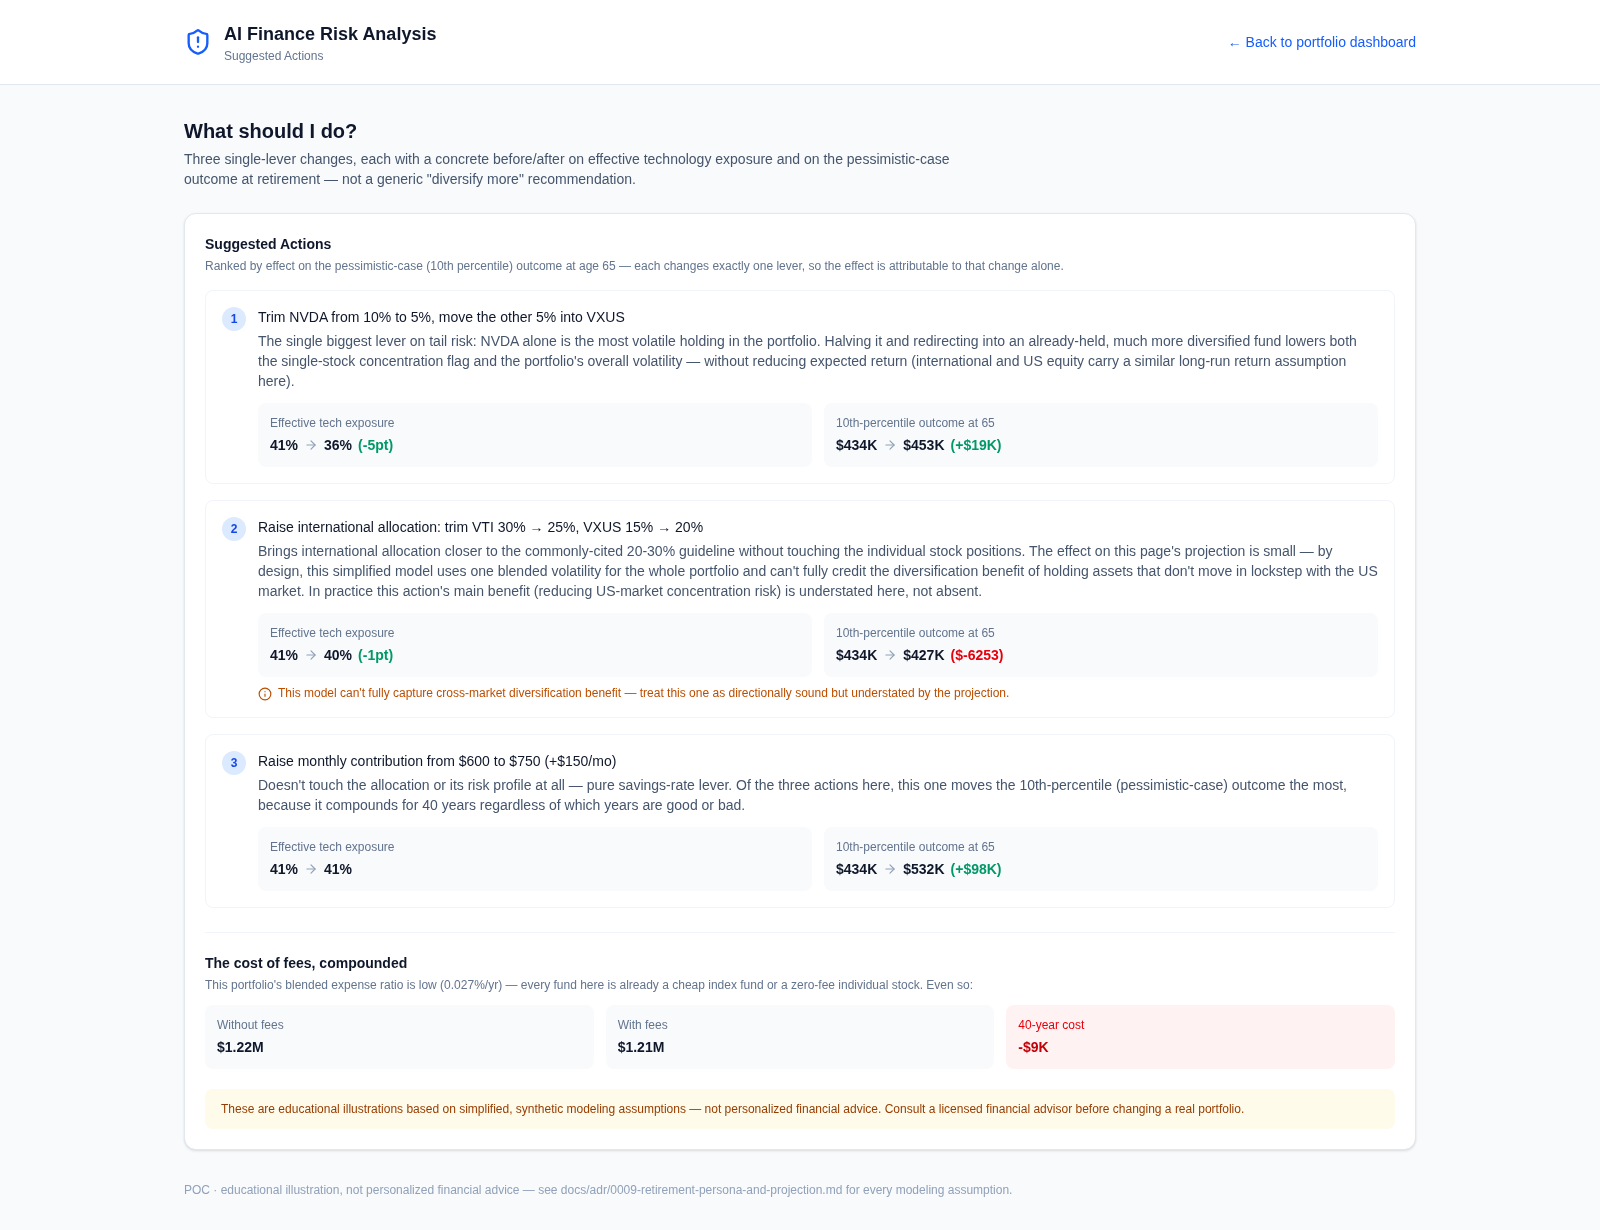
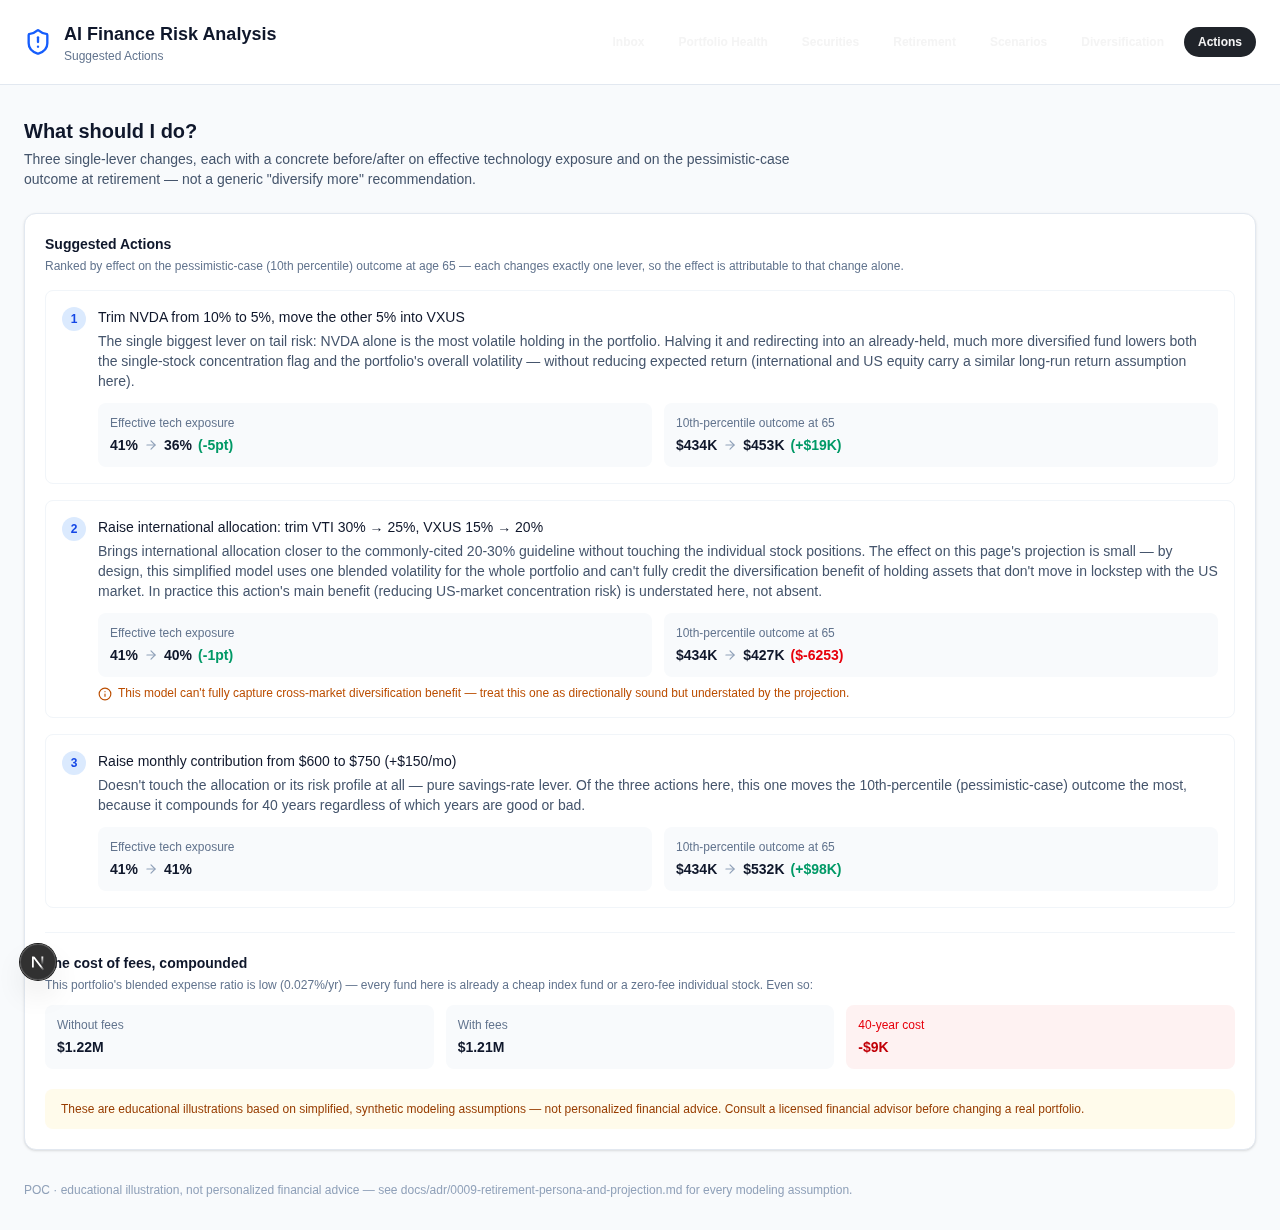
docs: ADR 0011 + README/screenshots for the triage-inbox visual build
Documents the dark Confident Flat visual system adoption, the
Act/Watch/Reviewed triage-queue structure replacing the card-grid
digest, and the holding-detail restructure (thesis/verdict/
bull-bear/catalysts/timeline/show-your-work) — implementation of
already-approved UX from the mockup review, not a new decision.
README route descriptions and screenshots updated to match the new
/, /portfolio-health, and /securities/[ticker]; stale
digest/dashboard/old-security-detail screenshots removed.

diff --git a/README.md b/README.md
@@ -1,27 +1,53 @@
-# AI Finance Risk Analysis — Dashboard POC
+# AI Finance Risk Analysis — Research Copilot POC
 
-A proof-of-concept dashboard illustrating what an AI-driven personal
-portfolio risk analysis product could look like for one hypothetical
-early-career retirement investor: age 25, a $18,000 brokerage account
-(7 holdings), contributing $600/month toward a $1.5M goal at 65.
+A proof-of-concept triage inbox illustrating what an AI-assisted
+personal-portfolio research copilot could look like for one
+hypothetical early-career retirement investor: age 25, a $18,000
+brokerage account (7 holdings — NVDA, AAPL, MSFT, VTI, VXUS, BND,
+Cash), contributing $600/month toward a $1.5M goal at 65.
 
-A 1-day Value at Risk number and a 0-100 risk score matter very little
-to someone with a 40-year horizon, so the dashboard is built around four
-questions a long-term investor actually asks — plus a fifth surface,
-research triage, that answers a different question entirely: not "is
-this portfolio healthy," but "what actually changed and is worth a
-look right now."
+The app is built around a triage-first workflow, not a static risk
+dashboard: what needs attention right now, with every claim traceable
+to a source, plus the separate questions a long-term investor actually
+asks (am I on track, what could go wrong, how is it doing, what should
+I do). Visual system is a dark "Confident Flat" theme — see
+[`docs/adr/0011-triage-inbox-visual-implementation.md`](docs/adr/0011-triage-inbox-visual-implementation.md)
+for the full build record and
+[`design/mockups/clickable-triage.html`](design/mockups/clickable-triage.html),
+[`clickable-health.html`](design/mockups/clickable-health.html), and
+[`clickable-detail.html`](design/mockups/clickable-detail.html) for the
+literal approved spec these pages implement.
 
-- **What changed, and is it worth a look?** ([`/digest`](apps/web/src/app/digest/page.tsx),
-  the landing page) — every holding's recent news, sentiment signal,
-  and tax-lot timing in one feed, ranked by relevance to this specific
-  portfolio (position size, news recency/volume, tax-lot urgency,
-  diversification impact) via a pure ranking function, never
-  hardcoded order. Every signal shows its basis (e.g. "analyst
-  commentary tone," "social chatter volume") and links straight into
-  the relevant holding's brief — information plus "why it might
-  matter," never a buy/sell/hold call. See
-  [`docs/adr/0010-research-copilot-reframe.md`](docs/adr/0010-research-copilot-reframe.md).
+- **What needs my attention?** ([`/`](apps/web/src/app/page.tsx), the
+  landing page — "Inbox" in the nav) — every holding grouped into
+  Act / Watch / Reviewed (no action needed), each item carrying a
+  headline, a one-line summary, and the specific reason it was
+  flagged. "Mark reviewed" is a real client-side interaction (no
+  persistence — POC). Below the queue, portfolio-level signals
+  (concentration hidden inside index funds, correlated news across
+  holdings) surface cross-holding analysis no single item's triage
+  would catch, plus the current allocation breakdown. Never a
+  buy/sell/hold call — every claim is framed as evidence to form your
+  own view from, with a stated basis.
+- **How is it doing?** ([`/portfolio-health`](apps/web/src/app/portfolio-health/page.tsx)) —
+  a deliberately separate page from the inbox (triage changes when
+  news drops; this changes when the market moves). Hero total-value
+  chart with a 1D/1W/1M/YTD/1Y toggle (the chart's accent color always
+  follows the actual sign of the period's change, never hardcoded),
+  biggest movers linking back into the inbox or a holding's brief,
+  a holdings price/return table, an allocation bar, and risk context
+  (diversification score, volatility, max drawdown) demoted to a small
+  card explicitly labeled "describes behavior, not instruction."
+- **Why is this holding flagged, and what's the evidence?**
+  ([`/securities/[ticker]`](apps/web/src/app/securities/[ticker]/page.tsx)) —
+  a thesis check with a verdict chip (weakens/supports/neutral,
+  always paired with its reason — never a bare rating), bull case /
+  bear case with inline citation markers, upcoming catalysts, a
+  chronological timeline, an explicit "what this system couldn't
+  verify" disclosure, and a per-citation "show your work" drawer
+  (raw excerpt, source-quality tag, model classification). Covers all
+  7 holdings, including the two low-activity index funds and Cash,
+  which render minimal pages rather than breaking.
 - **Am I on track?** ([`/retirement`](apps/web/src/app/retirement/page.tsx)) —
   a seeded Monte Carlo projection to age 65 (10th/50th/90th percentile
   fan chart against the goal), with live sliders for contribution and
@@ -30,56 +56,57 @@ look right now."
   2008/2020/2022-style drawdowns replayed against this persona's actual
   allocation, with a toggle comparing the same shock against a
   hypothetical 58-year-old pre-retiree to show why horizon matters.
-- **Why is it flagged?** ([`/portfolio-health`](apps/web/src/app/portfolio-health/page.tsx),
-  the former landing page, plus [`/diversification`](apps/web/src/app/diversification/page.tsx)) —
-  every AI risk flag explained in three parts (what it means, why it
-  matters at this horizon, what's driving it), plus a visual showing
-  how much of the portfolio's technology exposure is hidden inside
-  index funds vs. held directly.
+- **How concentrated is this, really?** ([`/diversification`](apps/web/src/app/diversification/page.tsx)) —
+  a diversification score, asset allocation, and effective sector
+  exposure once index funds are looked through (direct holdings vs.
+  via index funds).
 - **What should I do?** ([`/actions`](apps/web/src/app/actions/page.tsx)) —
   three ranked, single-lever suggestions (each with a before/after on
   tech exposure and on the pessimistic-case outcome at 65), plus what
   fee drag costs over 40 years even on a low-cost portfolio.
 
-Each security's own page ([`/securities/[ticker]`](apps/web/src/app/securities/[ticker]/page.tsx))
-now also carries a research brief: a fundamentals-vs-own-history-and-peers
-snapshot, that holding's news digest, its sentiment signal, any
-tax-lot flags, and a 180-day price/fundamental trend chart — in
-addition to, not replacing, the existing AI risk score and signals.
-
 **This is a POC with no backend, no data pipeline, and no real data.**
 Everything on screen is synthetic/mock data defined in
-[`apps/web/src/lib/mock-data.ts`](apps/web/src/lib/mock-data.ts). See
+[`apps/web/src/lib/mock-data.ts`](apps/web/src/lib/mock-data.ts) and
+[`apps/web/src/lib/triage.ts`](apps/web/src/lib/triage.ts) (the inbox,
+Portfolio Health, and holding-detail fixtures — content copied
+verbatim from the approved mockups, not invented). See
 [`docs/adr/0001-poc-scope-no-plumbing.md`](docs/adr/0001-poc-scope-no-plumbing.md)
 for why, and the rest of [`docs/adr/`](docs/adr/) for the decisions
 behind this build —
 [`docs/adr/0009-retirement-persona-and-projection.md`](docs/adr/0009-retirement-persona-and-projection.md)
-documents the persona and **every modeling assumption** behind the
-projection, scenario replay, and suggested-action math, worked out by
-hand so it's auditable rather than a black box.
+documents the persona and every modeling assumption behind the
+projection, scenario replay, and suggested-action math, and
+[`docs/adr/0010-research-copilot-reframe.md`](docs/adr/0010-research-copilot-reframe.md) /
+[`docs/adr/0011-triage-inbox-visual-implementation.md`](docs/adr/0011-triage-inbox-visual-implementation.md)
+document the triage-queue product shape and its final visual
+implementation, respectively.
 
 ## Screenshots
 
-Digest — the new landing page, holdings ranked by relevance:
+Inbox — the landing page, Act/Watch triage queue with portfolio-level signals:
 
-![Digest](docs/screenshots/digest.png)
+![Inbox](docs/screenshots/triage-inbox.png)
 
-Portfolio health — the former dashboard, now its own route:
+Inbox — after marking an item reviewed (client-side state, no persistence):
 
-![Portfolio health](docs/screenshots/portfolio-health.png)
+![Inbox — mark reviewed](docs/screenshots/triage-inbox-mark-reviewed.png)
 
-One holding's full research brief — fundamentals, trend, news, sentiment,
-and tax-lot flags, alongside the existing AI risk read-out:
+Portfolio Health — hero value chart, movers, holdings table, allocation, risk context:
 
-![Security detail — research brief](docs/screenshots/security-detail-brief.png)
+![Portfolio Health](docs/screenshots/portfolio-health.png)
 
-Dashboard — full page:
+Portfolio Health — 1D timeframe selected (chart color follows the actual sign):
 
-![Dashboard — full page](docs/screenshots/dashboard-full.png)
+![Portfolio Health — 1D](docs/screenshots/portfolio-health-1d.png)
 
-Dashboard — above-the-fold viewport:
+Holding detail — NVDA's thesis check, bull/bear evidence, catalysts, and timeline:
 
-![Dashboard — viewport](docs/screenshots/dashboard-viewport.png)
+![Security detail — NVDA](docs/screenshots/security-detail-nvda.png)
+
+Holding detail — a citation's "show your work" drawer open:
+
+![Security detail — NVDA, source drawer](docs/screenshots/security-detail-nvda-drawer.png)
 
 Am I on track? — retirement projection with live sliders:
 
@@ -93,15 +120,9 @@ What should I do? — ranked suggested actions and fee drag:
 
 ![Suggested actions](docs/screenshots/actions.png)
 
-Per-security view — every holding ranked by AI risk score, with model
-confidence:
+Per-security view — every holding ranked by AI risk score, with model confidence:
 
 ![Securities — list](docs/screenshots/securities-list.png)
-
-One holding in depth — AI-assisted risk read-out, the signals driving
-it, and a 30-day trend:
-
-![Security — detail](docs/screenshots/security-detail.png)
 
 Diversification risk — the portfolio-level view: a diversification
 score, asset allocation, effective sector exposure once index funds
@@ -115,25 +136,28 @@ the AI flagged:
 ```
 ai-finance-risk-analysis/
 ├── apps/
-│   └── web/              # Next.js (App Router) dashboard
+│   └── web/              # Next.js (App Router) app
 │       └── src/
-│           ├── app/              # page.tsx (digest), digest/, portfolio-health/,
+│           ├── app/              # page.tsx (inbox), portfolio-health/,
 │           │                     # retirement/, scenarios/, actions/, securities/,
-│           │                     # diversification/
-│           ├── components/       # SummaryCard, RiskCharts, TopContributorsTable,
-│           │                     # AnomalyFeed, RiskBadge, AIAnalysisPanel,
+│           │                     # diversification/, digest/ (redirects to /)
+│           ├── components/       # HoldingDetailView, SiteNav, RiskBadge,
 │           │                     # RetirementProjection, ScenarioExplorer,
 │           │                     # SuggestedActions, DiversificationCharts,
-│           │                     # DiversificationScoreCard, SiteNav, DigestPage,
-│           │                     # DigestCard, SecurityBrief, SentimentSignalBadge,
-│           │                     # TaxLotFlagNotice, TrendSeriesChart
+│           │                     # DiversificationScoreCard
 │           └── lib/
-│               ├── mock-data.ts  # all dashboard data (synthetic)
+│               ├── mock-data.ts  # persona, projection, diversification mock data
+│               ├── triage.ts     # inbox, Portfolio Health, holding-detail mock data
 │               ├── projection.ts # seeded Monte Carlo + scenario/fee-drag math
-│               └── digest.ts     # pure relevance-ranking function for the digest feed
+│               └── digest.ts     # pure relevance-ranking function, reused by triage.ts
+├── design/
+│   └── mockups/           # approved static-HTML design mockups (reference only,
+│                           # not shipped code) — clickable-triage.html,
+│                           # clickable-health.html, clickable-detail.html are the
+│                           # literal spec apps/web implements
 ├── docs/
 │   ├── adr/               # architecture decision records
-│   └── screenshots/       # dashboard screenshots (this README embeds them)
+│   └── screenshots/       # app screenshots (this README embeds them)
 └── package.json            # npm workspaces root
 ```
 
@@ -155,8 +179,9 @@ npm run start --workspace=apps/web
 ## Tech
 
 - [Next.js](https://nextjs.org) 16 (App Router, TypeScript, Tailwind CSS v4)
-- [Recharts](https://recharts.org) for every chart (exposure, risk-trend,
-  retirement projection fan chart, scenario replay, sector exposure)
-- [lucide-react](https://lucide.dev) for icons
+- [Recharts](https://recharts.org) for the retirement/scenario/diversification charts;
+  the inbox, Portfolio Health, and holding-detail pages draw their own
+  inline SVG sparklines/area charts per the approved mockups
+- [lucide-react](https://lucide.dev) for icons on the untouched routes
 
 See [`docs/adr/`](docs/adr/) for the reasoning behind each of these choices.

diff --git a/docs/adr/0011-triage-inbox-visual-implementation.md b/docs/adr/0011-triage-inbox-visual-implementation.md
@@ -1,0 +1,114 @@
+# 0011: Triage-inbox visual implementation — dark "Confident Flat" system, Act/Watch queue, holding-detail restructure
+
+## Status
+Accepted
+
+## Context
+ADR 0010 defined the research-copilot product shape (triage queue +
+per-security brief, replacing a static risk dashboard) but shipped it
+inside the app's original light theme and a card-grid layout
+(`DigestPage`/`DigestCard`) that only loosely matched the final product
+intent. Several rounds of mockup iteration followed
+(`design/mockups/triage-inbox.html` through `clickable-triage.html`,
+`clickable-health.html`, `clickable-detail.html`), converging on a
+dark, pill-everything visual system ("Style C: Confident Flat") and a
+clickable three-page flow that Colby reviewed and approved. This ADR
+documents wiring that already-approved design into production
+React/Tailwind — it is not re-litigating the UX from ADR 0010/0011's
+mockup phase, just recording what shipped and why, per this repo's ADR
+culture.
+
+## Decision
+1. **Dark visual system, adopted at the layout level.** Tokens lifted
+   verbatim from the approved mockups: background `#191c1f`, card
+   surface `#20242a`, secondary surface `#262b32`, border `#2d333b`,
+   text `#f4f4f4`/`#9ba3ab`/`#6b7280`, semantic-only green/red/amber
+   (`#4ade80`/`#f87171`/`#fbbf24`). Pill radius (999px) on every
+   badge/button/toggle, zero box-shadows, tabular numerals on every
+   numeric value. Applied in `app/layout.tsx` + `globals.css` so the
+   shell is dark everywhere, not just on the three redesigned pages —
+   `/retirement`, `/scenarios`, `/diversification`, `/actions` keep
+   their own light card content unchanged internally (out of scope for
+   a visual-implementation ADR) but no longer sit on a jarring white
+   page shell when reached from the new nav.
+
+2. **`/` becomes the Act/Watch/Reviewed triage queue**, replacing the
+   card-grid digest (`DigestPage`/`DigestCard`, now deleted). Holdings
+   group into Act, Watch, and a collapsed "Reviewed / no action
+   needed" list; an empty state covers the all-caught-up case. "Mark
+   reviewed" is client-side `useState`, no persistence (POC). Below
+   the queue, portfolio-level signals (concentration, correlation) —
+   information no single holding's triage would surface — replace what
+   had been a secondary holdings table in earlier mockup iterations.
+
+3. **`/portfolio-health` becomes the quick-glance performance page**:
+   hero value + timeframe toggle + chart (accent color follows the
+   *actual* sign of the selected timeframe's change, never
+   hardcoded — the up/down color-flip bug fix carried over from the
+   mockup), biggest-movers row, a holdings price/return table, an
+   allocation bar, and risk context demoted to a small supporting
+   card explicitly labeled "describes behavior, not instruction."
+   Deliberately kept a separate page from the triage queue (see the
+   `ai-finance-risk-analysis` skill's UI-taste notes): triage answers
+   "what needs attention," health answers "how is it doing."
+
+4. **`/securities/[ticker]` gains the full research-copilot detail
+   view**: thesis check with a verdict chip (weakens/supports/neutral,
+   always paired with its reason), bull case / bear case with inline
+   citation markers, an upcoming-catalysts list, a chronological
+   timeline, a "what this system couldn't verify" disclosure, and a
+   per-citation "show your work" drawer (raw excerpt, source-quality
+   tag, model classification). Replaces the old
+   `SecurityBrief`/`AIAnalysisPanel`/`SentimentSignalBadge`/
+   `TaxLotFlagNotice`/`TrendSeriesChart`/`RiskHistoryChart` stack,
+   which is deleted along with `RiskCharts`/`SummaryCard`/
+   `TopContributorsTable`/`AnomalyFeed` (all only reachable from the
+   surfaces this ADR replaces). `/digest` redirects to `/` rather than
+   being deleted outright, so old links/bookmarks still resolve.
+
+**Guardrail carried forward unchanged from ADR 0010, re-verified on
+every piece of copy ported from the mockups or newly written:** no
+buy/sell/hold language, no bare rating/score without its basis shown,
+sentiment and signals framed as information to form a view from, never
+a directive.
+
+## What stays, unchanged
+- The retirement persona, holdings set (NVDA/AAPL/MSFT/VTI/VXUS/BND/
+  Cash), and every modeling assumption in `lib/mock-data.ts` —
+  unchanged, already matched the "auto-researcher pipeline" holdings
+  set from the ADR-0011-territory reframe before this visual pass
+  started.
+- `/retirement`, `/scenarios`, `/diversification`, `/actions` — same
+  routes, same internal content, same ADR-0009-documented modeling.
+  Only the shared nav/page-shell background changed around them.
+- `/securities` (the list view) — unchanged; still a plain table
+  linking into the now-redesigned `/securities/[ticker]`.
+- ADR 0001's "mock data only, no backend/plumbing" constraint.
+
+## Consequences
+- New data module `lib/triage.ts`: triage-holding fixtures,
+  portfolio-level signals, Portfolio Health fixtures (holdings,
+  per-timeframe series, benchmark path, risk-context figures), and the
+  richest addition — a `HoldingDetail` record per ticker (thesis,
+  verdict, bull/bear with citations, catalysts, timeline, "can't
+  verify" list, and a source record per citation) covering all 7
+  holdings including the two low-activity index funds and Cash, which
+  render minimal pages rather than breaking. Content for all of this
+  is copied verbatim from the approved mockups, not invented — see the
+  build's own report for the handful of places a literal copy wasn't
+  possible (e.g. Tailwind-equivalent spacing/sizing, not new facts).
+  Reuses `lib/digest.ts`'s `computeRelevanceScore` for an attached
+  relevance figure rather than duplicating a second ranking scheme.
+- `components/SiteNav.tsx` rewritten as the dark pill-tab nav from the
+  mockups, keeping every existing route reachable (Inbox, Portfolio
+  Health, Securities, Retirement, Scenarios, Diversification, Actions)
+  — not trimmed down to just the two mockup pages' own nav.
+- Deleted now-dead components: `DigestPage`, `DigestCard`,
+  `SecurityBrief`, `AIAnalysisPanel`, `SentimentSignalBadge`,
+  `TaxLotFlagNotice`, `TrendSeriesChart`, `RiskHistoryChart`,
+  `RiskCharts`, `SummaryCard`, `TopContributorsTable`, `AnomalyFeed`.
+  `RiskBadge` and `DiversificationScoreCard` are kept — still used by
+  the unchanged `/securities` list and `/diversification`.
+- `docs/screenshots/` and `README.md` updated to describe the new `/`,
+  `/portfolio-health`, and `/securities/[ticker]`, replacing
+  references to the retired digest-card/dashboard versions.
